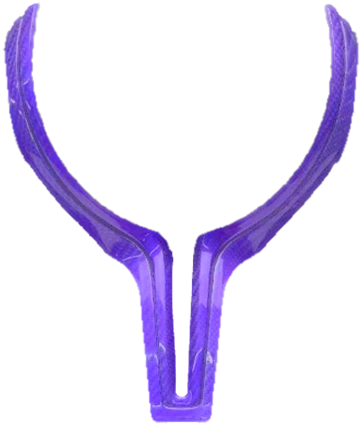
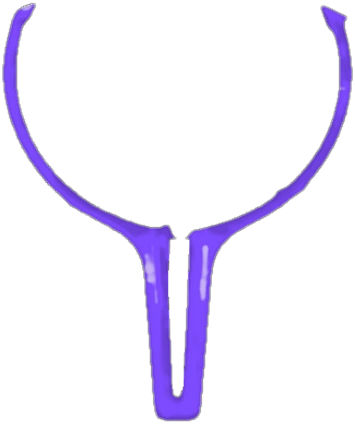
Конструктор: ровные цветные вставки и дырка в спице, чёрная алькантара, карбоновый обод E11, метки по образцу, триколор только на карбоне; v132

Changed region(s): [[0.0, 0.0, 1.0, 1.0]]

diff --git a/builder.js b/builder.js
@@ -19,8 +19,8 @@ let stepIndex = 0;
 // Детали — с рулей каталога: хром E02/E05, крашеные вставки F30/F31/F51/F78/F28, накладка карбон F11 и кованый F55,
 // метки E10/F17/F36/F14/F20/E11, строчка — перекрашенные настоящие стежки, лепестки — материал F70/F62/F65/F78 на форме родного.
 // Координаты слоёв: x, y, w, h в кадре 900×900 (site_clone/builder_tools, layers.json).
-const PV = 'builder/', PV_V = '5';
-const LAYERS = {"round":{"chrome":[275,391,360,440],"emblem-bw":[425,425,66,67],"paint-blue":[280,389,356,438],"paint-red":[281,389,352,437],"paint-yellow":[279,386,353,440],"paint-purple":[280,383,353,440],"paint-tricolor":[281,387,351,441],"cover-carbon":[258,409,394,458],"cover-forged":[258,409,394,454],"stitch-red":[102,93,701,705],"stitch-blue":[102,93,701,705],"stitch-white":[102,93,701,705],"stitch-grey":[102,93,701,705],"stitch-yellow":[102,93,701,705],"stitch-tricolor":[102,93,701,705],"mark-red":[429,16,42,93],"mark-blue":[426,16,46,92],"mark-lightblue":[422,16,55,93],"mark-white":[428,16,43,93],"mark-yellow":[427,16,48,93],"mark-tricolor":[429,16,41,87],"paddle-std":[149,346,606,79],"paddle-silver":[149,346,606,79],"paddle-carbon":[149,346,606,79],"paddle-red":[149,346,606,79],"paddle-forged-blue":[149,346,606,79],"paddle-purple":[149,346,606,79],"paddle-black-long":[149,300,607,126],"paddle-carbon-long":[149,300,607,126],"paddle-forged-blue-long":[149,300,607,126],"paddle-forged-red-long":[149,300,607,126],"paddle-purple-long":[149,300,607,126],"rim-alcgrip":[15,133,870,675],"rim-alcfull":[15,16,870,864],"rim-carbon-grip":[15,133,870,675],"rim-perf":[15,133,870,675],"rimtop-carbon":[154,16,619,864]},"anatomy":{"chrome":[268,398,365,436],"emblem-bw":[418,443,69,69],"paint-blue":[270,404,365,425],"paint-red":[270,403,362,425],"paint-yellow":[269,402,362,426],"paint-purple":[269,399,362,426],"paint-tricolor":[270,403,361,427],"cover-carbon":[256,423,391,441],"cover-forged":[256,423,391,438],"stitch-red":[93,96,713,699],"stitch-blue":[93,96,713,699],"stitch-white":[93,96,713,699],"stitch-grey":[93,96,713,699],"stitch-yellow":[93,96,713,699],"stitch-tricolor":[93,96,713,699],"mark-red":[431,21,40,88],"mark-blue":[428,21,44,88],"mark-lightblue":[423,21,56,88],"mark-white":[430,21,42,88],"mark-yellow":[429,21,46,88],"mark-tricolor":[431,21,39,83],"paddle-std":[140,351,627,86],"paddle-silver":[140,351,627,86],"paddle-carbon":[140,351,627,86],"paddle-red":[140,351,627,86],"paddle-forged-blue":[140,351,627,86],"paddle-purple":[140,351,627,86],"paddle-black-long":[140,298,627,139],"paddle-carbon-long":[140,298,627,139],"paddle-forged-blue-long":[140,298,627,139],"paddle-forged-red-long":[140,298,627,139],"paddle-purple-long":[140,298,627,139],"rim-alcgrip":[15,267,871,558],"rim-alcfull":[15,21,871,857],"rim-carbon-grip":[15,267,871,558],"rim-smooth":[15,267,871,558],"rimtop-carbon":[59,21,782,857]}};
+const PV = 'builder/', PV_V = '10';
+const LAYERS = {"round":{"chrome":[275,391,360,440],"emblem-bw":[425,425,66,67],"paint-blue":[281,399,348,426],"paint-red":[281,399,348,426],"paint-yellow":[281,399,348,426],"paint-purple":[281,399,348,426],"paint-tricolor":[281,399,348,426],"cover-carbon":[257,407,396,469],"cover-forged":[257,407,395,457],"stitch-red":[102,93,701,705],"stitch-blue":[102,93,701,705],"stitch-white":[102,93,701,705],"stitch-grey":[102,93,701,705],"stitch-yellow":[102,93,701,705],"stitch-tricolor":[102,93,701,705],"mark-red":[429,16,42,93],"mark-blue":[429,16,42,93],"mark-lightblue":[429,16,42,93],"mark-white":[429,16,42,93],"mark-yellow":[429,16,42,93],"mark-tricolor":[429,16,41,87],"paddle-std":[149,346,606,79],"paddle-silver":[149,346,606,79],"paddle-carbon":[149,346,606,79],"paddle-red":[149,346,606,79],"paddle-forged-blue":[149,346,606,79],"paddle-purple":[149,346,606,79],"paddle-black-long":[149,300,607,126],"paddle-carbon-long":[149,300,607,126],"paddle-forged-blue-long":[149,300,607,126],"paddle-forged-red-long":[149,300,607,126],"paddle-purple-long":[149,300,607,126],"rim-alcgrip":[15,133,870,675],"rim-alcfull":[15,16,870,864],"rim-carbon-grip":[15,133,870,675],"rim-perf":[15,133,870,675],"rimtop-carbon":[154,16,619,864]},"anatomy":{"chrome":[268,398,365,436],"emblem-bw":[418,443,69,69],"paint-blue":[273,404,355,424],"paint-red":[273,404,355,424],"paint-yellow":[273,404,355,424],"paint-purple":[273,404,355,424],"paint-tricolor":[273,404,355,424],"cover-carbon":[256,422,391,451],"cover-forged":[256,422,391,439],"stitch-red":[93,96,713,699],"stitch-blue":[93,96,713,699],"stitch-white":[93,96,713,699],"stitch-grey":[93,96,713,699],"stitch-yellow":[93,96,713,699],"stitch-tricolor":[93,96,713,699],"mark-red":[431,21,40,88],"mark-blue":[431,21,40,88],"mark-lightblue":[431,21,40,88],"mark-white":[431,21,40,88],"mark-yellow":[431,21,40,88],"mark-tricolor":[431,21,39,83],"paddle-std":[140,351,627,86],"paddle-silver":[140,351,627,86],"paddle-carbon":[140,351,627,86],"paddle-red":[140,351,627,86],"paddle-forged-blue":[140,351,627,86],"paddle-purple":[140,351,627,86],"paddle-black-long":[140,298,627,139],"paddle-carbon-long":[140,298,627,139],"paddle-forged-blue-long":[140,298,627,139],"paddle-forged-red-long":[140,298,627,139],"paddle-purple-long":[140,298,627,139],"rim-alcgrip":[15,267,871,558],"rim-alcfull":[15,21,871,857],"rim-carbon-grip":[15,267,871,558],"rim-smooth":[15,267,871,558],"rimtop-carbon":[59,21,782,857]}};
 
 const CARS = [
   ['BMW-E', 'BMW · E-кузов'],
@@ -52,8 +52,14 @@ const STEPS = [
   { key: 'cover', title: 'Накладка спицы', sub: 'Деталь вокруг вставки и на нижней спице.', options: () => [
     { v: 'leather', l: 'Чёрная, как на фото', sw: 'black' },
     { v: 'carbon', l: 'Карбон', sw: 'carbon' },
-    { v: 'forged', l: 'Кованый карбон', sw: 'forged' },
-  ].filter(o => isBMW() || o.v !== 'forged') },
+  ] },
+  { key: 'rim', title: 'Отделка обода', sub: 'Кожа — чёрная Напа. Алькантара и карбон настоящие.', options: () => [
+    { v: 'smooth', l: 'Гладкая кожа', sw: 'black' },
+    { v: 'perf', l: 'Перфорированная кожа на хвате', sw: 'perf' },
+    { v: 'alcgrip', l: 'Алькантара на хвате', sw: 'alc' },
+    { v: 'alcfull', l: 'Вся алькантара (чёрная)', sw: 'alc' },
+    { v: 'carbon', l: 'Карбоновый обод, кожа на хвате', note: 'На карбоне подогрев не греет', sw: 'carbon' },
+  ] },
   { key: 'stitch', title: 'Цвет строчки', sub: 'Нитки по ободу руля. Меняем бесплатно.', options: () => [
     { v: 'red', l: 'Красная', sw: 'red' },
     { v: 'blue', l: 'Синяя', sw: 'blue' },
@@ -76,15 +82,8 @@ const STEPS = [
     { v: 'lightblue', l: 'Голубая', sw: 'lightblue' },
     { v: 'white', l: 'Белая', sw: 'white' },
     { v: 'yellow', l: 'Жёлтая', sw: 'yellow' },
-    { v: 'tricolor', l: 'M-метка (триколор)', sw: 'tricolor' },
-  ].filter(o => isBMW() || o.v !== 'tricolor') },
-  { key: 'rim', title: 'Отделка обода', sub: 'Кожа — чёрная Напа. Алькантара и карбон настоящие.', options: () => [
-    { v: 'smooth', l: 'Гладкая кожа', sw: 'black' },
-    { v: 'perf', l: 'Перфорированная кожа на хвате', sw: 'perf' },
-    { v: 'alcgrip', l: 'Алькантара на хвате', sw: 'alc' },
-    { v: 'alcfull', l: 'Вся алькантара', sw: 'alc' },
-    { v: 'carbon', l: 'Карбон сверху и снизу', note: 'На карбоне подогрев не греет', sw: 'carbon' },
-  ] },
+    { v: 'tricolor', l: 'M-метка (триколор)', sw: 'tricolor', note: 'Только на карбоновом ободе' },
+  ].filter(o => o.v !== 'tricolor' || (isBMW() && st.rim === 'carbon')) },
   { key: 'paddles', title: 'Лепестки', sub: 'Лепестки работают. Если их не было с завода — нужно закодировать.', options: () => [
     { v: 'std', l: 'Стандартные', sw: 'black' },
     { v: 'silver', l: 'Серебристые', sw: 'chrome' },
@@ -268,6 +267,7 @@ export function builderClick(event, catalog) {
   if (!t || !t.closest('#bd-root')) return false;
   if (t.dataset.bdKey) {
     const k = t.dataset.bdKey, v = t.dataset.bdVal;
+    if (k === 'rim' && v !== 'carbon' && st.mark === 'tricolor') delete st.mark; // триколор только на карбоне
     if (k === 'car' && st.car !== v) { delete st.emblem; if (v === 'Mercedes') for (const x of ['stitch', 'mark']) if (st[x] === 'tricolor') delete st[x]; }
     st[k] = v; write(st);
     window.BMWAnalytics?.track?.('builder_pick', { mode: null, series: st.car || null, product: k + ':' + v });

diff --git a/index.html b/index.html
@@ -3,7 +3,7 @@
 <meta charset="utf-8"><meta name="viewport" content="width=device-width, initial-scale=1, viewport-fit=cover"><meta name="theme-color" content="#111316">
 <title>BMW Steering Wheels — руль под Ваш характер</title><meta name="description" content="Подберите руль BMW или Mercedes-Benz: подогрев, вибрация, круиз-контроль. Реальные фотографии, комплектации и цены. Сравните варианты и отправьте подборку менеджеру.">
 <link rel="icon" href="favicon.svg" type="image/svg+xml"><link rel="stylesheet" href="studio.css?v=109"><link rel="stylesheet" href="viewer.css?v=109"><link rel="stylesheet" href="dark.css?v=109"><link rel="preconnect" href="https://fonts.googleapis.com"><link rel="stylesheet" href="https://fonts.googleapis.com/css2?family=Manrope:wght@400;600;800&display=swap&subset=cyrillic"><link rel="stylesheet" href="builder.css?v=127"><link rel="stylesheet" href="ntech.css?v=7">
-<script src="https://telegram.org/js/telegram-web-app.js?63" defer></script><script src="stats-config.js?v=111" defer></script><script src="analytics.js?v=110" defer></script><script src="gallery.js?v=109" defer></script><script src="ntech.js?v=1" defer></script><script src="studio.js?v=131" type="module"></script>
+<script src="https://telegram.org/js/telegram-web-app.js?63" defer></script><script src="stats-config.js?v=111" defer></script><script src="analytics.js?v=110" defer></script><script src="gallery.js?v=109" defer></script><script src="ntech.js?v=1" defer></script><script src="studio.js?v=132" type="module"></script>
 </head><body>
 <a href="#main" class="skip-link">Перейти к содержимому</a>
 <header class="site-header"><a class="nt-logo" href="#/">BMW Steering Wheels</a><nav class="desktop-nav" aria-label="Основная навигация"><a href="#/build">Собрать руль</a><a href="#/pick" data-nav="configure">Подобрать</a><a href="#/catalog" data-nav="catalog">Каталог</a><a href="#/favorites" data-nav="favorites">Избранное <span data-fav-count>0</span></a></nav><a class="header-contact" href="https://t.me/samoha8989" data-telegram>Помочь с выбором <span aria-hidden="true">↗</span></a></header>

diff --git a/studio.js b/studio.js
@@ -1,4 +1,4 @@
-import {builderPage,builderClick,builderEnter} from './builder.js?v=127';
+import {builderPage,builderClick,builderEnter} from './builder.js?v=132';
 import {ONE,brandName,brandKey,defaults,cleanState,keyOf,brandOf,priceInfo,filterProducts,featureLabels,requestedFeatures,buildRequest,uNum} from './catalog-engine.js?v=109';
 const main=document.getElementById('main'),dock=document.getElementById('action-dock');
 const esc=s=>String(s??'').replace(/[&<>"']/g,c=>({'&':'&amp;','<':'&lt;','>':'&gt;','"':'&quot;',"'":'&#39;'}[c]));
